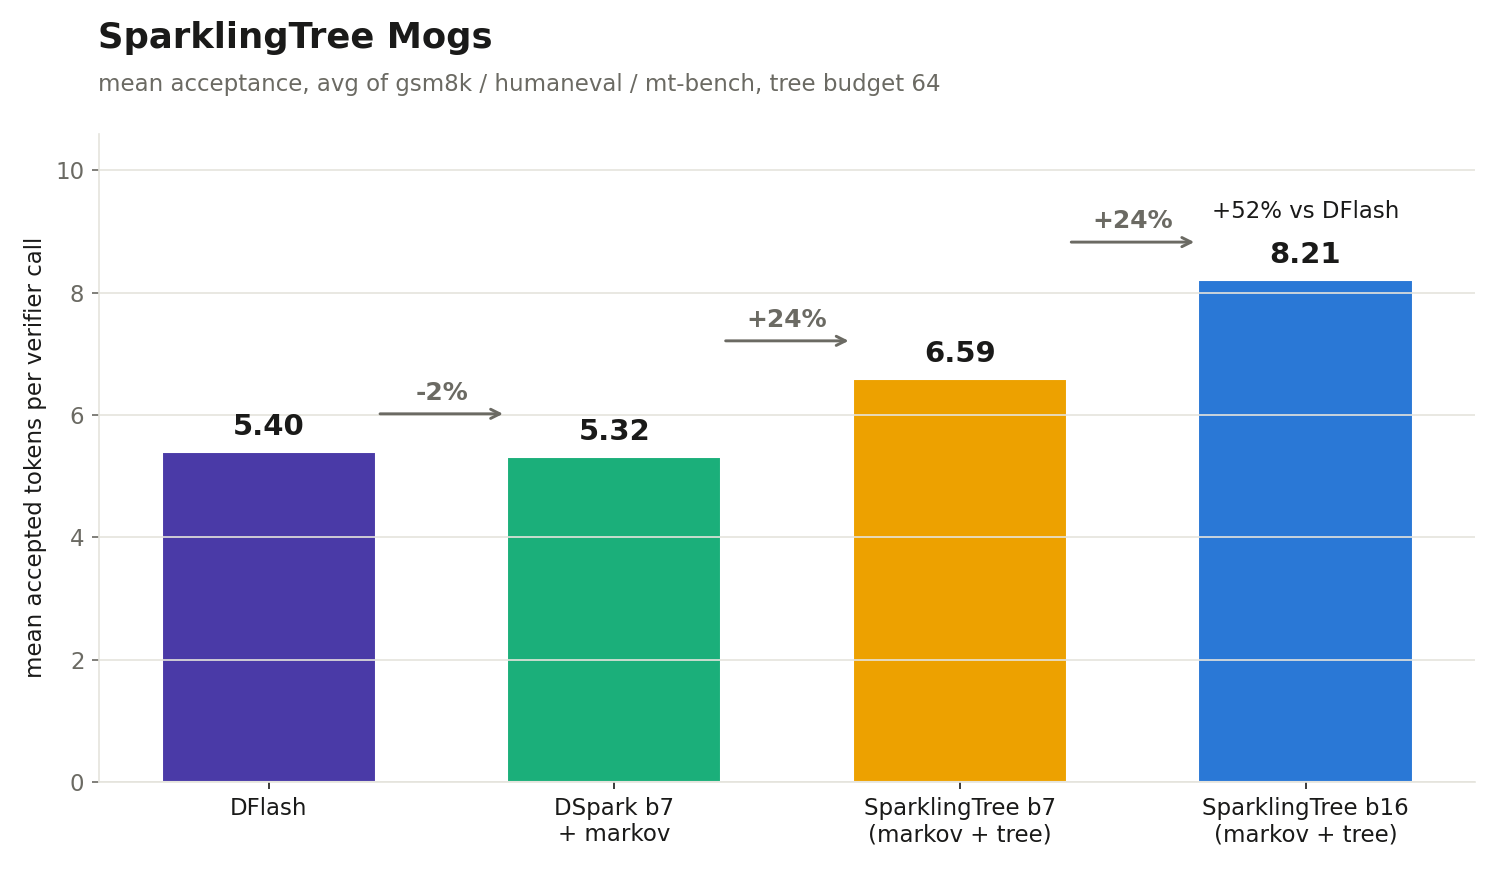
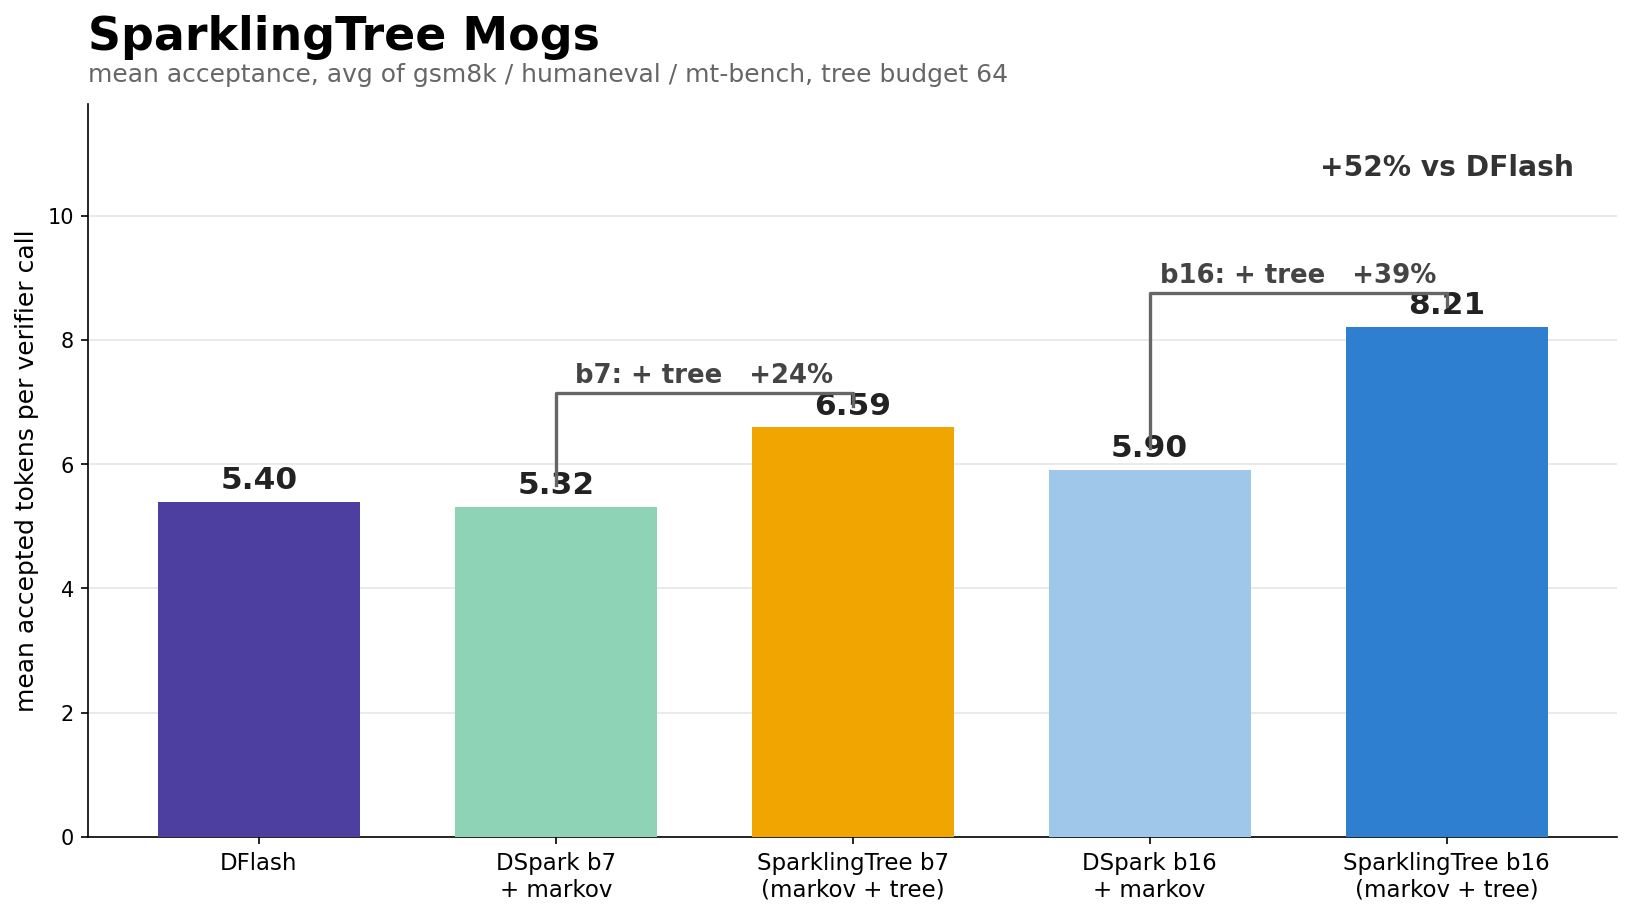
Fill in SparklingTree ablation, benchmark note, and final future ideas
Tree-isolation ablation (+39% at b16, +24% at b7) with the updated
five-bar acceptance chart, DDTree-repo benchmarking note, PerfectBlend
dataset rationale, fully written future ideas with archive links, and
the new closing thanks.

Claude-Session: https://claude.ai/code/session_01Ev2qgrrBSa65wfv6bmJC1b

diff --git a/content/blogs.js b/content/blogs.js
@@ -2151,6 +2151,8 @@ We validated the idea by graphing the per-depth acceptance, now with SparklingTr
 
 ![The per-depth acceptance rate shows how DDTree starts high whilst DSpark is able to maintain more consistency compared to DFlash/DDTree. SparklingTree shows flat-ish + a high starting acceptance rate.](/content/sparklingtree/results-1.png)
 
+Note: we use the [DDTree repository](https://github.com/liranringel/ddtree) and the greedy decoding technique from its benchmarking scripts.
+
 DDTree starts at an extremely high acceptance rate, because it can hedge with multiple shallow branches early, rather than go down one path that might be wrong entirely — just as we predicted. On the other hand, DSpark starts lower, but because it has an autoregressive biaser, it stays steady (on sequences in which it starts correct, it is likely to continue being correct), while DDTree dips hard.
 
 SparklingTree takes the best of both worlds. It starts high due to the hedging and branching, but also maintains relatively steady throughout depth because of the markov model conditioning.
@@ -2183,11 +2185,11 @@ Like I explained earlier, the DSpark model + markov corrector + tree pushed DSpa
 
 To break past this ceiling, we had to retrain DSpark to work with a block size of 15 (16 max tokens drafted and accepted). Since the starting model, DeepSeek's released `dspark_qwen3_4b_block7` drafter, can be changed to draft 16 blocks with just a setting tweak (it does not change any parameter shapes), it can do block=16 out of the box — it will just perform terribly, because it has never seen training data above block=7.
 
-We take the DeepSpec codebase, load in our starting point, then continue training with block size 16 on sequence size 768, 32 anchors per sequence, at 600 steps with 2,400 PerfectBlend chat conversations. We also make sure to continue training the markov head (though it should not matter, since the markov model is position invariant) and the confidence head.
+We take the DeepSpec codebase, load in our starting point, then continue training with block size 16 on sequence size 768, 32 anchors per sequence, at 600 steps with 2,400 PerfectBlend chat conversations. We chose this dataset so as to not confound by training on the exact data we would test with. We also make sure to continue training the markov head (though it should not matter, since the markov model is position invariant) and the confidence head.
 
-![DSpark finetuned to block size 16 performs the best because it breaks the b=7 ceiling: SparklingTree b16 reaches 8.21 accepted tokens per verifier call (+24% over b7, +52% over DFlash).](/content/sparklingtree/results-5-final-acceptance.png)
+![DSpark finetuned to block size 16 performs the best because it breaks the b=7 ceiling: SparklingTree b16 reaches 8.21 accepted tokens per verifier call, +52% over DFlash.](/content/sparklingtree/results-5-final-acceptance.png)
 
-The results achieve our goal of smashing the 7 token max limit of DSpark.
+The results achieve our goal of smashing the 7 token max limit of DSpark. We also tested DSpark with our b16 but *without* the tree verification, to isolate that it wasn't just the extra training on PerfectBlend giving us the speedup, but rather the tree itself. The results show that at block size 16, the tree gives a 39% advantage, and at block size 7 a 24% advantage.
 
 Our checkpoint: [huggingface.co/shreybirmiwal/Qwen3-4B-DSpark-b16](https://huggingface.co/shreybirmiwal/Qwen3-4B-DSpark-b16)
 
@@ -2264,17 +2266,14 @@ We need a way to be able to precompute as much of the iterative work in a single
 
 # Conclusion and results
 
-> **[Results chart — data needed]** Head-to-head of DDTree, DFlash, DSpark, and SparklingTree. Drop in the wall-clock-speedup comparison once finalized.
-
-I've learned a lot about statistics, and how the internals of these speculators actually work. Thanks for reading, and I would love any feedback!
-
 ## Future Ideas
 
-1. Training the tree, the markov model, and the rest of the harness together.
-2. Jointly training DSpark's confidence head with the tree — it stops working when spliced naively, but it could be useful for knowing when to stop verifying.
-3. Benchmarking at larger batch sizes.
-4. Trying MoE and bigger target models.
-5. Beam search — we did an experiment; the results were not the best.
+1. We saw that training the markov model jointly with the drafter is absolutely essential — otherwise accuracy collapses. Could it be that the tree should also be jointly baked into the training of the markov model + drafter?
+2. Similarly, DSpark has a confidence head. This was originally designed for a chain (NOT a tree), but can we still use it to help decide when to stop verification? This could make this project more viable at higher batch sizes. Additionally, how does it perform when it is jointly baked into the training as well? I did some cursory experiments in the [archive-1 folder](https://github.com/jwlaboratory/sparkling-tree/tree/main/archive-1-speedup-w-confidence-head-verification) but didn't spend enough time to tell if this is an interesting direction.
+3. We run benchmarks at batch size 1 because the engineering lift to make this work on an engine like SGLang or vLLM would be too large. We should next try larger batch sizes. We guess that the gains likely diminish rapidly at larger batch sizes. Additionally: trying tensor-parallel GPUs, MoE models (more experts need to be loaded in, doing worse with the tree's extra nodes to verify), and bigger models.
+4. [Beam search](https://en.wikipedia.org/wiki/Beam_search) uses a fixed branching budget and has been shown to work well, instead of a best-first heap. I briefly tried an experiment in [archive-2](https://github.com/jwlaboratory/sparkling-tree/tree/main/archive-2-finding_best-beam). The results are somewhat interesting in that you actually want evenly spread out branches instead of front-loaded or back-loaded. This is space for more exploration.
+
+Thank you very much for reading this! I've definitely learned a lot, from statistics to how the internals of speculators actually work. I'm immensely proud of my work and thankful for the people who've helped me learn this — and for you for reading! I would love any feedback / corrections / discussions!
 */ }),
   },
 ];
